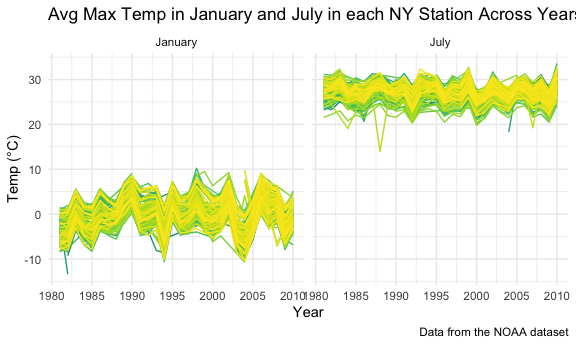
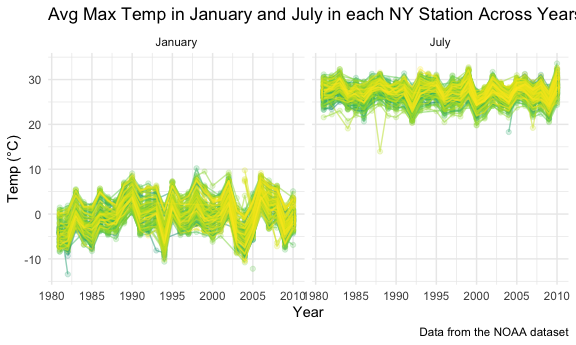
Description of plot 3.2, temps for January and July

Changed region(s): [[0.0938, 0.4928, 0.5312, 0.8116], [0.5312, 0.1739, 1.0, 0.4638]]

diff --git a/p8105_hw3_hlz2108.md b/p8105_hw3_hlz2108.md
@@ -390,7 +390,8 @@ tmax_noaa = noaa_tidy %>%
 
 ``` r
 ggplot(tmax_noaa, aes(x = year, y = mean_tmax, group = id, color = id)) +
-  geom_line() +
+  geom_point(alpha = 0.2) +
+  geom_line(alpha = 0.5) +
   labs(
     title = "Avg Max Temp in January and July in each NY Station Across Years",
     x = "Year",
@@ -405,11 +406,26 @@ ggplot(tmax_noaa, aes(x = year, y = mean_tmax, group = id, color = id)) +
     legend.position = "none")
 ```
 
+    ## Warning: Removed 5970 rows containing missing values (geom_point).
+
     ## Warning: Removed 5640 row(s) containing missing values (geom_path).
 
 <img src="p8105_hw3_hlz2108_files/figure-gfm/plot_noaa_tmax-1.png" width="90%" />
 
-Is there any observable / interpretable structure? Any outliers?
+The average max temp in January is usually within the -10-10°C range.
+The lowest max temperature recorded was \~-14°C. There does not appear
+to be a significant different in average max temperatures throughout the
+years. One could say that there may be a slight increase in max
+temperatures when comparing 1980 vs. 2010 but it is difficult to
+determine whether there is any significant difference from the two-panel
+plot generated.
+
+Average max temperatures in July appear to be in the 25-30°C range.
+There is one outlier where the max temp for July was \~14°C but
+generally speaking, most values are within the 25-30°C range. There does
+not appear to be a significant difference in average max temperatures in
+July throughout the years. However, 2010 did have one of the highest
+average temperatures, as high as \~33°C.
 
 Make a two-panel plot showing (i) tmax vs tmin for the full dataset
 (note that a scatterplot may not be the best option); and (ii) make a
